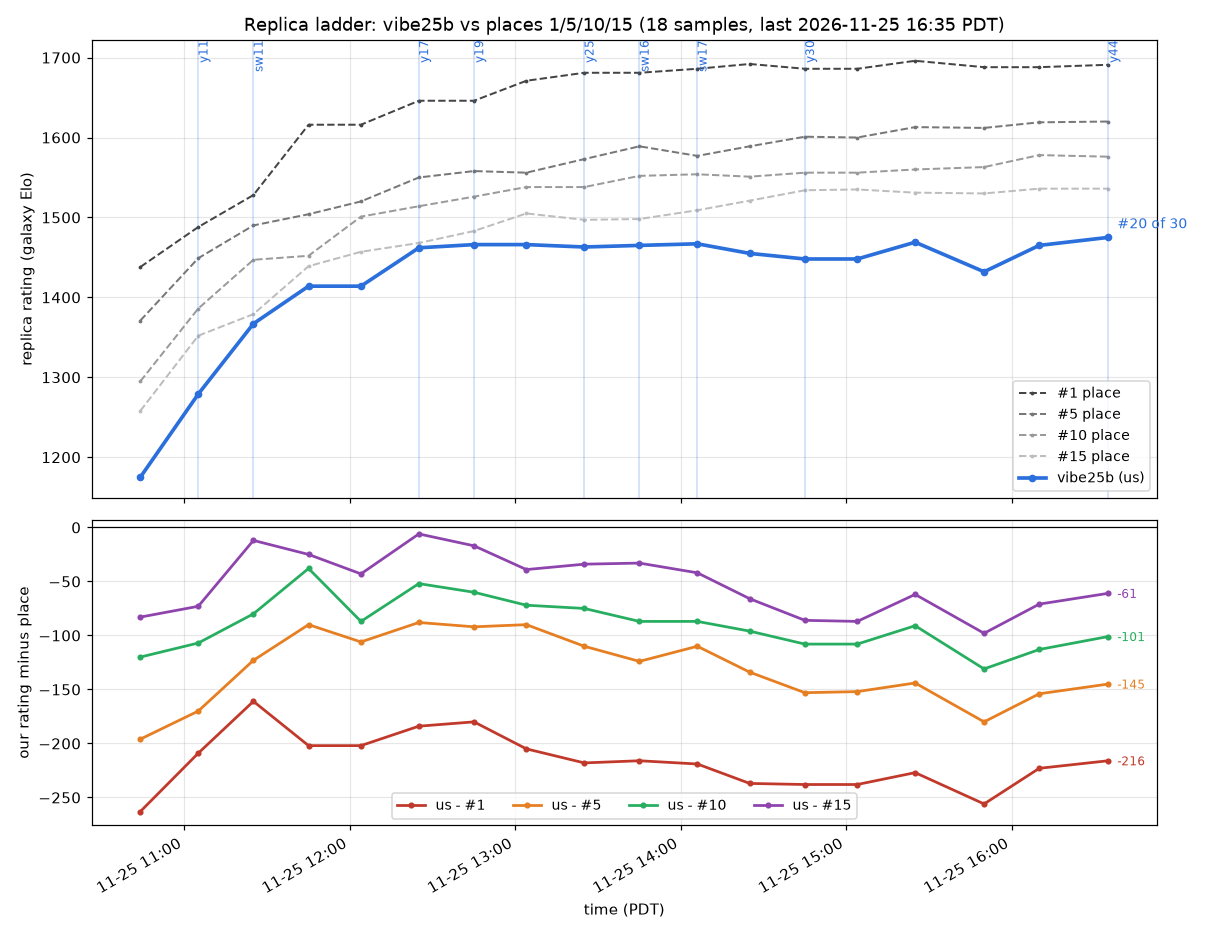
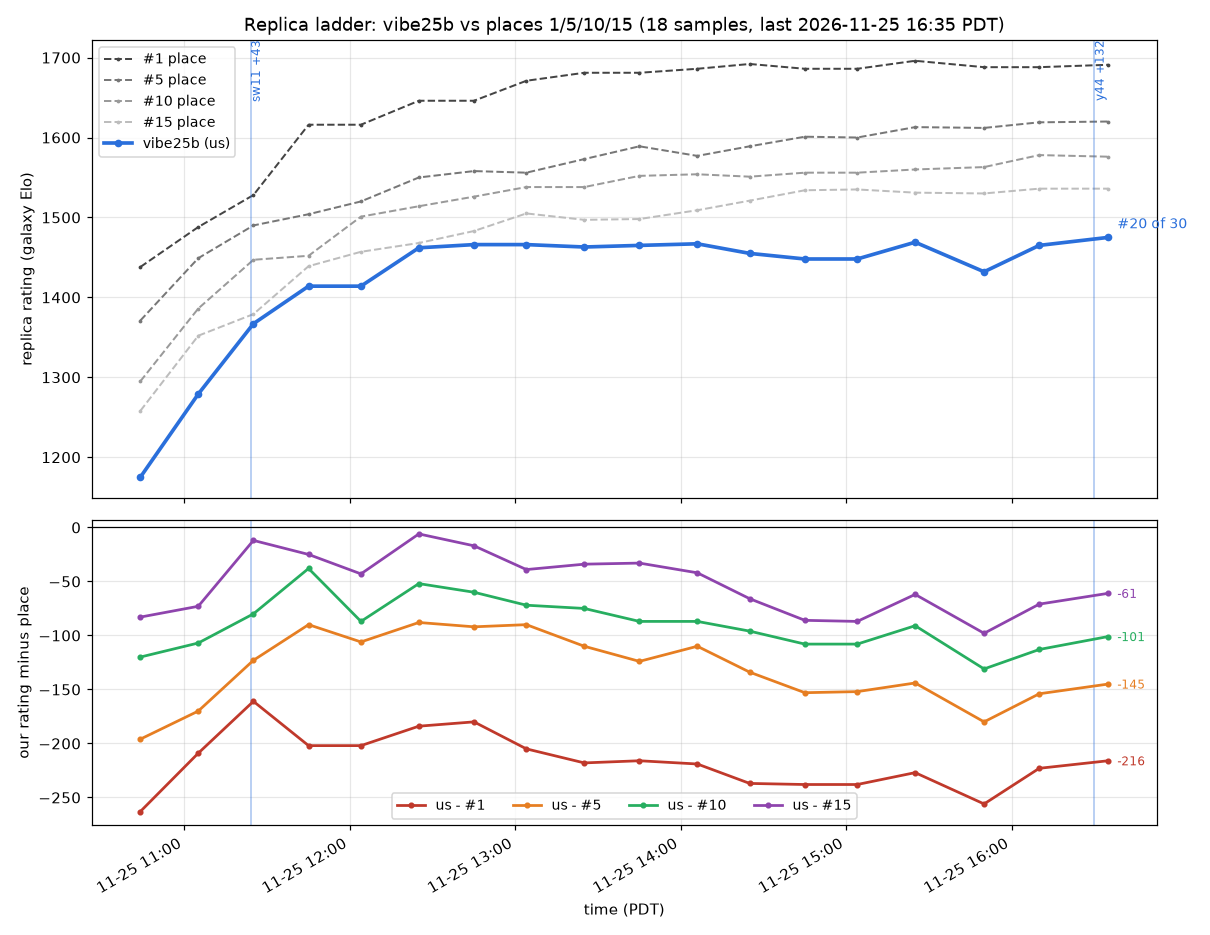
replica-elo chart: vertical lines mark crownings with a large local Elo gain (>= 40 over the predecessor; owner prompt #10)
Claude-Session: https://claude.ai/code/session_01SzziPSCWtjsjju9cnThDf5

diff --git a/tools/replica_elo.py b/tools/replica_elo.py
@@ -46,6 +46,24 @@ def sample():
     print('replica-elo:', dict(zip(HEADER, row)))
 
 
+BIG_GAIN = 40   # local Elo a new champion must gain over the one it replaced to get a vertical line
+
+
+def big_crownings():
+    """(crowned at, bot, local gain) for each champion whose current local rating beats its predecessor's by
+    BIG_GAIN or more, from research/tourney/champions.csv and the tournament's present fit."""
+    sys.path.insert(0, os.path.join(REPO, 'tools'))
+    import tourney as T
+    import elolib
+    rt = elolib.fit(T.games())
+    out = []
+    for r in T.champ_history():
+        b, a = r['bot'], r['base']
+        if b in rt and a in rt and rt[b].rating - rt[a].rating >= BIG_GAIN:
+            out.append((r['when'], b, rt[b].rating - rt[a].rating))
+    return out
+
+
 def chart():
     import matplotlib
     matplotlib.use('Agg')
@@ -66,13 +84,12 @@ def chart():
     last = rows[-1]
     ax.annotate(f"#{last['our_rank']} of {last['teams']}", (t[-1], float(last['our_rating'])), textcoords='offset points',
                 xytext=(6, 6), fontsize=9, color='#2a6fdb')
-    # mark changes of the active local champion
-    prev = None
-    for ti, r in zip(t, rows):
-        if r['champion'] != prev and prev is not None:
-            ax.axvline(ti, color='#2a6fdb', alpha=0.25, lw=1)
-            ax.text(ti, ax.get_ylim()[1], f" {r['champion']}", fontsize=8, color='#2a6fdb', va='top', rotation=90)
-        prev = r['champion']
+    # mark the crownings with an especially large local gain over the champion they replaced (owner prompt #10)
+    for when, bot, gain in big_crownings():
+        if t[0] <= when <= t[-1] + (t[-1] - t[0]) * 0.05:
+            for a in (ax, gx):
+                a.axvline(when, color='#2a6fdb', alpha=0.35, lw=1.2)
+            ax.text(when, ax.get_ylim()[1], f" {bot} +{gain:.0f}", fontsize=8, color='#2a6fdb', va='top', rotation=90)
     # lower panel: our rating minus the rating at each place (owner prompt #7); above 0 means we are ahead of it
     gap_col = {1: '#c0392b', 5: '#e67e22', 10: '#27ae60', 15: '#8e44ad'}
     for p in PLACES:

diff --git a/HANDOFF.md b/HANDOFF.md
@@ -61,7 +61,8 @@ season's tools. Times are the owner's zone: `TZ=America/Vancouver` (UTC-7, "PDT"
 ## Replica progress chart
 `python3 tools/replica_elo.py sample`, run every prod, appends our rank and rating and the ratings at places 1, 5, 10
 and 15 to `progress/replica-elo.csv`. `~/.venv-bc25b/bin/python tools/replica_elo.py chart` redraws
-`progress/replica-elo.png` from it (owner prompt #6). The data starts at 2026-11-25 10:44 PDT.
+`progress/replica-elo.png` from it (owner prompt #6). The data starts at 2026-11-25 10:44 PDT. Vertical lines mark crownings whose
+champion beats the one it replaced by `BIG_GAIN` (40) or more local Elo in the present fit (owner prompt #10).
 
 ## Prod
 A session cron fires every 20 minutes (owner prompt #3). It follows TRAINING_ALGORITHM §7.1 and reports on the

diff --git a/PROMPTS.md b/PROMPTS.md
@@ -52,3 +52,6 @@ Do not put a non-champion on the replica.  Instead, learn to employ the enemy's 
 ## #9 (2026-11-25 15:41 PDT)
 
 If they're truly beating us, then it should win in our local tournament
+
+## 10. 2026-11-25 16:41 PDT
+How about in replica-elo.png you use the vertical lines to mark the champions that had an especially high improvement in local Elo score?
